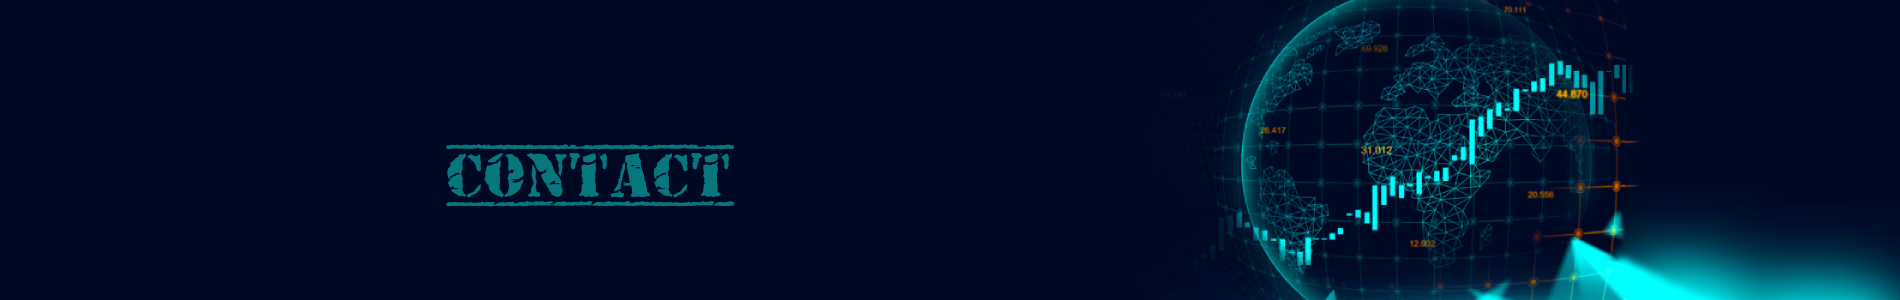
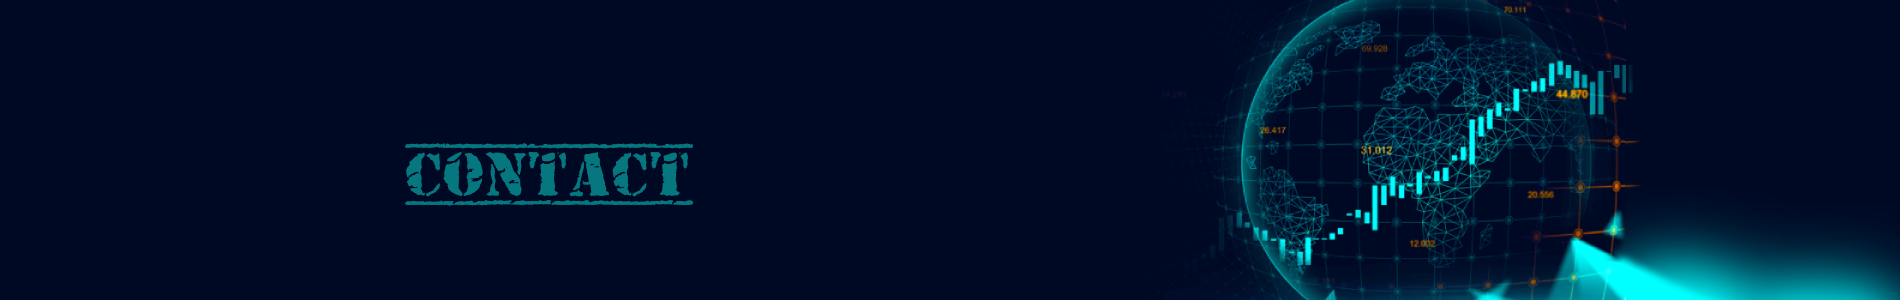
Title Posi

Changed region(s): [[0.2174, 0.48, 0.4037, 0.69]]

diff --git a/static/website/css/style.css b/static/website/css/style.css
@@ -7603,7 +7603,7 @@ h1, h2, h3, h4, h5,
           background: linear-gradient(135deg, #2f89fc 0%, #2cbcbc 100%);
           filter: progid:DXImageTransform.Microsoft.gradient( startColorstr='#2f89fc', endColorstr='#00dc94', GradientType=1 ); }
         .owl-carousel.home-slider .slider-item.bread-item .slider-text {
-          height: 400px; }
+          height: 300px; }
     .owl-carousel.home-slider .owl-nav .owl-prev span,
     .owl-carousel.home-slider .owl-nav .owl-next span {
       color: #fff; }

diff --git a/website/templates/resume.html b/website/templates/resume.html
@@ -9,7 +9,7 @@
       <div class="slider-item bread-item" style="background-image: url('{% static 'website/images/bg_resume.png' %}');" >
         <div class="overlay"></div>
         <div class="container" data-scrollax-parent="true">
-          <div class="row slider-text">
+          <div class="row slider-text align-items-center">
             <div class="row-md-15 col-md-7 col-sm-12 ftco-animate mb-5">
             </div>
           </div>
